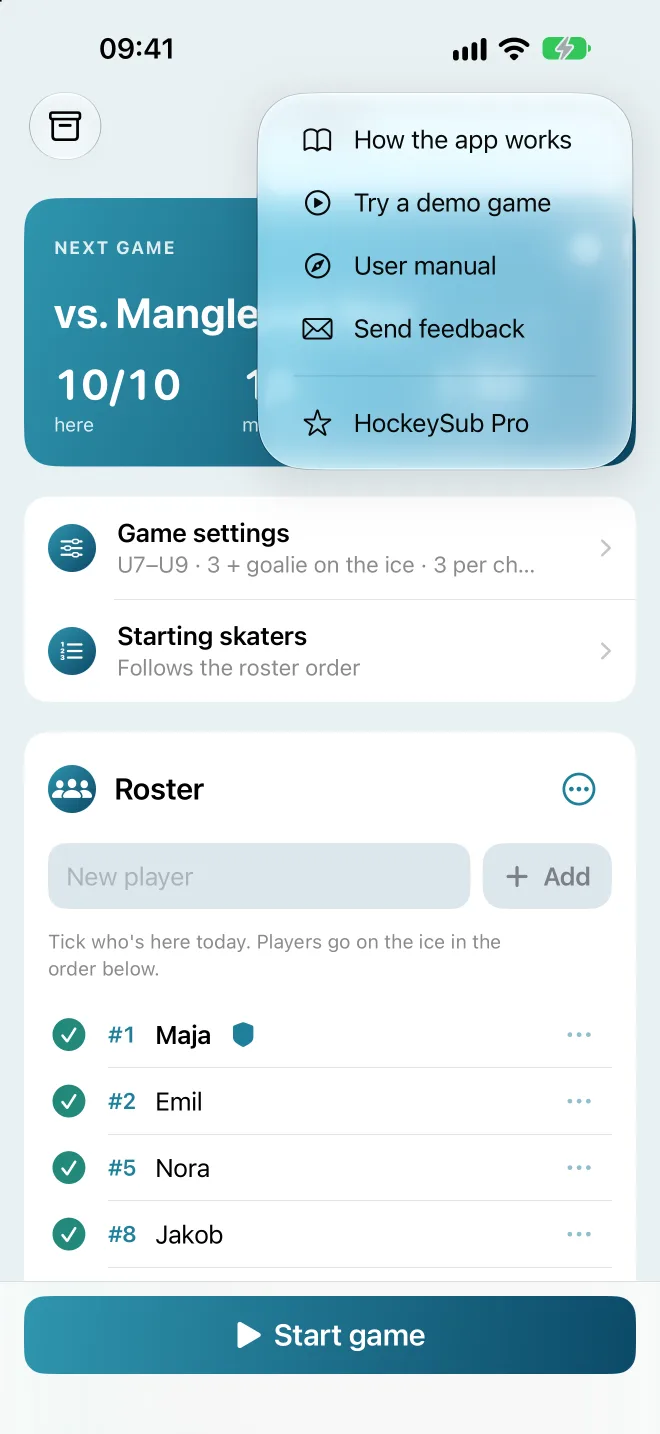
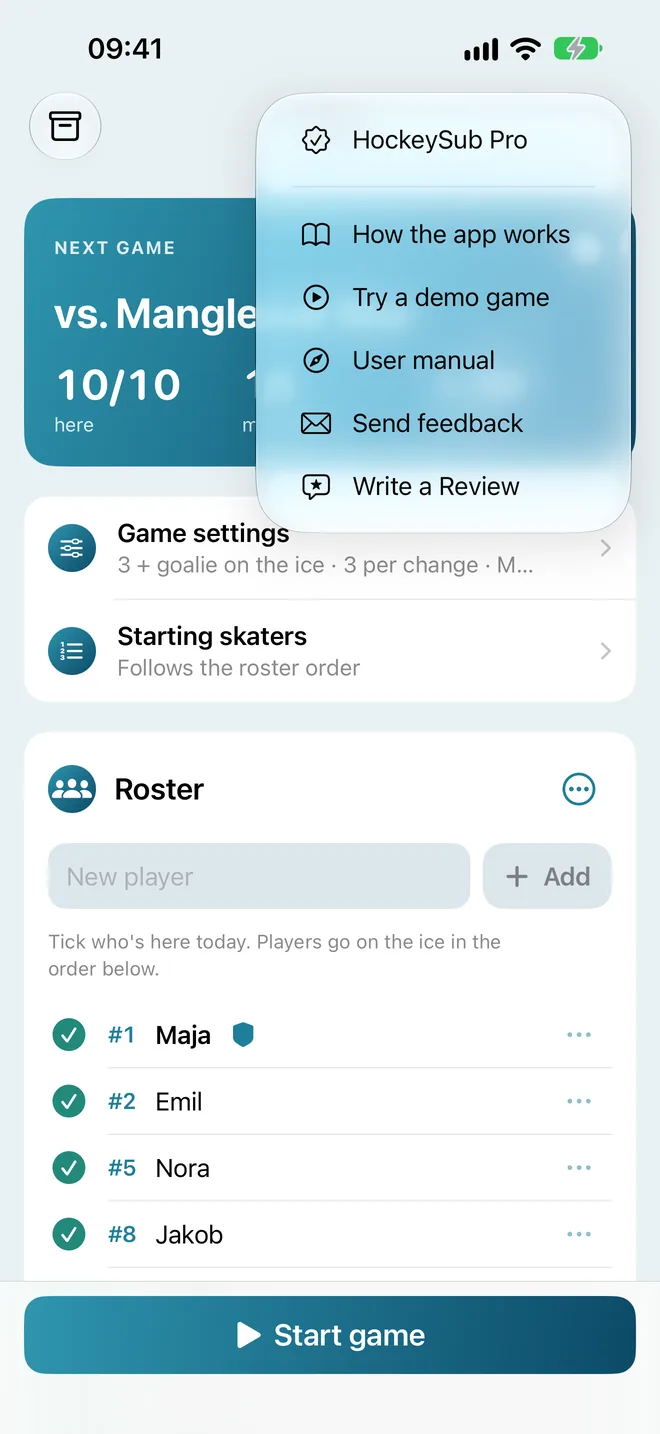
Nye bilder av hjelpemenyen og Lag fra 1.7 (webp, v=3, alt-tekster)
Claude-Session: https://claude.ai/code/session_01LR5e8MxEcBM8orTVazzgP7

diff --git a/en/manual.html b/en/manual.html
@@ -92,7 +92,7 @@
       </div>
       <div class="shots">
         <figure>
-          <div class="phone"><div class="screen"><img src="../bilder/skjermbilder/en/web/10-hjelpmeny.webp?v=2" width="660" height="1434" loading="lazy" alt="The question mark menu with how the app works, try a demo game, user guide, send feedback and HockeySub Pro"></div></div>
+          <div class="phone"><div class="screen"><img src="../bilder/skjermbilder/en/web/10-hjelpmeny.webp?v=3" width="660" height="1434" loading="lazy" alt="The question mark menu with HockeySub Pro at the top, then how the app works, try a demo game, user manual, send feedback and write a review"></div></div>
           <figcaption>The question mark menu</figcaption>
         </figure>
         <figure>
@@ -360,7 +360,7 @@
       </div>
       <div class="shots">
         <figure>
-          <div class="phone"><div class="screen"><img src="../bilder/skjermbilder/en/web/14-lag.webp?v=2" width="660" height="1434" loading="lazy" alt="The teams sheet with your teams, new team and share with assistant coach via iCloud"></div></div>
+          <div class="phone"><div class="screen"><img src="../bilder/skjermbilder/en/web/14-lag.webp?v=3" width="660" height="1434" loading="lazy" alt="The team sheet with your teams, logo and colour on PDFs, and new team"></div></div>
           <figcaption>Administrer lag (manage teams)</figcaption>
         </figure>
       </div>

diff --git a/manual.html b/manual.html
@@ -91,7 +91,7 @@
       </div>
       <div class="shots">
         <figure>
-          <div class="phone"><div class="screen"><img src="bilder/skjermbilder/web/10-hjelpmeny.webp?v=2" width="660" height="1434" loading="lazy" alt="Spørsmålstegn-menyen med Slik fungerer appen, Prøv en demo-kamp, Brukermanual, Send tilbakemelding og HockeySub Pro"></div></div>
+          <div class="phone"><div class="screen"><img src="bilder/skjermbilder/web/10-hjelpmeny.webp?v=3" width="660" height="1434" loading="lazy" alt="Spørsmålstegn-menyen med HockeySub Pro øverst, deretter Slik fungerer appen, Prøv en demo-kamp, Brukermanual, Send tilbakemelding og Skriv en anmeldelse"></div></div>
           <figcaption>Spørsmålstegnet</figcaption>
         </figure>
         <figure>
@@ -359,7 +359,7 @@
       </div>
       <div class="shots">
         <figure>
-          <div class="phone"><div class="screen"><img src="bilder/skjermbilder/web/14-lag.webp?v=2" width="660" height="1434" loading="lazy" alt="Lag-arket med Lagene dine, Nytt lag og Del med medtrener via iCloud"></div></div>
+          <div class="phone"><div class="screen"><img src="bilder/skjermbilder/web/14-lag.webp?v=3" width="660" height="1434" loading="lazy" alt="Lag-arket med Lagene dine, Logo og farge på PDF-ene og Nytt lag"></div></div>
           <figcaption>Administrer lag</figcaption>
         </figure>
       </div>

diff --git a/sv/manual.html b/sv/manual.html
@@ -91,7 +91,7 @@
       </div>
       <div class="shots">
         <figure>
-          <div class="phone"><div class="screen"><img src="../bilder/skjermbilder/web/10-hjelpmeny.webp?v=2" width="660" height="1434" loading="lazy" alt="Frågeteckenmenyn med Så fungerar appen, Prova en demomatch, Användarmanual, Skicka feedback och HockeySub Pro"></div></div>
+          <div class="phone"><div class="screen"><img src="../bilder/skjermbilder/web/10-hjelpmeny.webp?v=3" width="660" height="1434" loading="lazy" alt="Frågeteckenmenyn med HockeySub Pro överst, sedan Så fungerar appen, Prova en demomatch, Användarmanual, Skicka feedback och Skriv en recension"></div></div>
           <figcaption>Frågetecknet</figcaption>
         </figure>
         <figure>
@@ -359,7 +359,7 @@
       </div>
       <div class="shots">
         <figure>
-          <div class="phone"><div class="screen"><img src="../bilder/skjermbilder/web/14-lag.webp?v=2" width="660" height="1434" loading="lazy" alt="Lagbladet med Dina lag, Nytt lag och Dela med medtränare via iCloud"></div></div>
+          <div class="phone"><div class="screen"><img src="../bilder/skjermbilder/web/14-lag.webp?v=3" width="660" height="1434" loading="lazy" alt="Lagbladet med Dina lag, Logga och färg på PDF:erna och Nytt lag"></div></div>
           <figcaption>Hantera lag</figcaption>
         </figure>
       </div>
